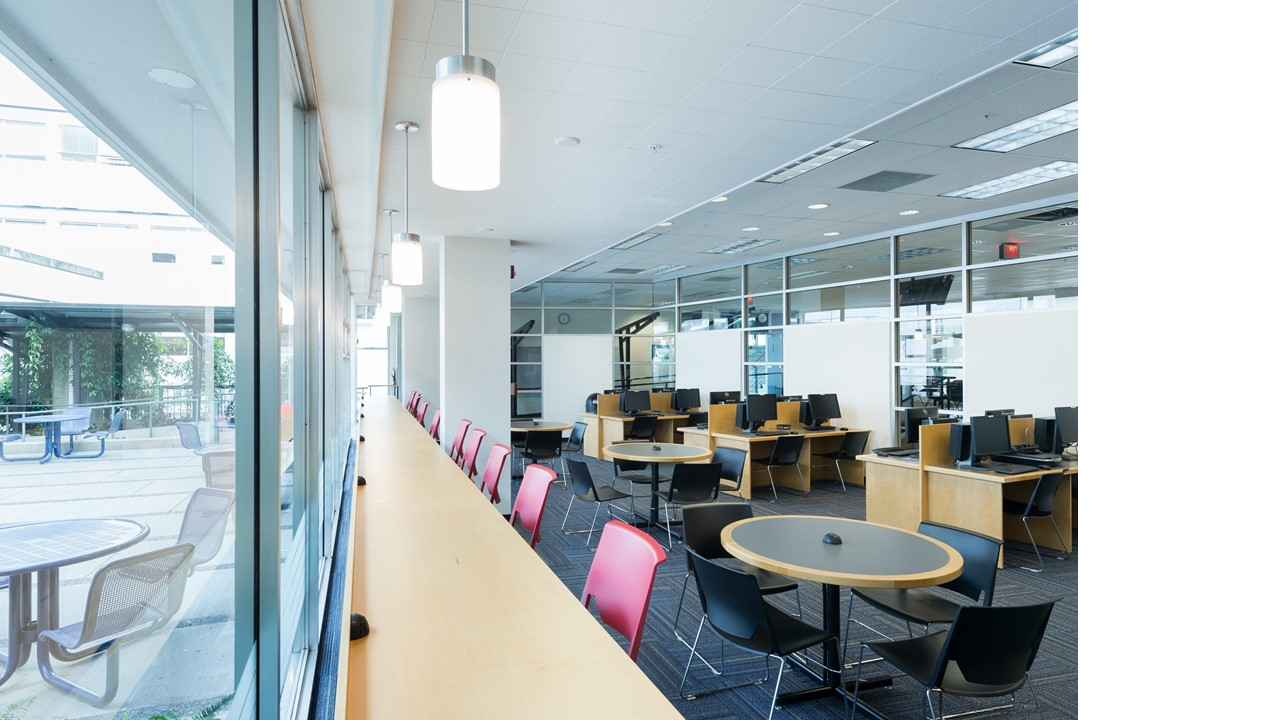
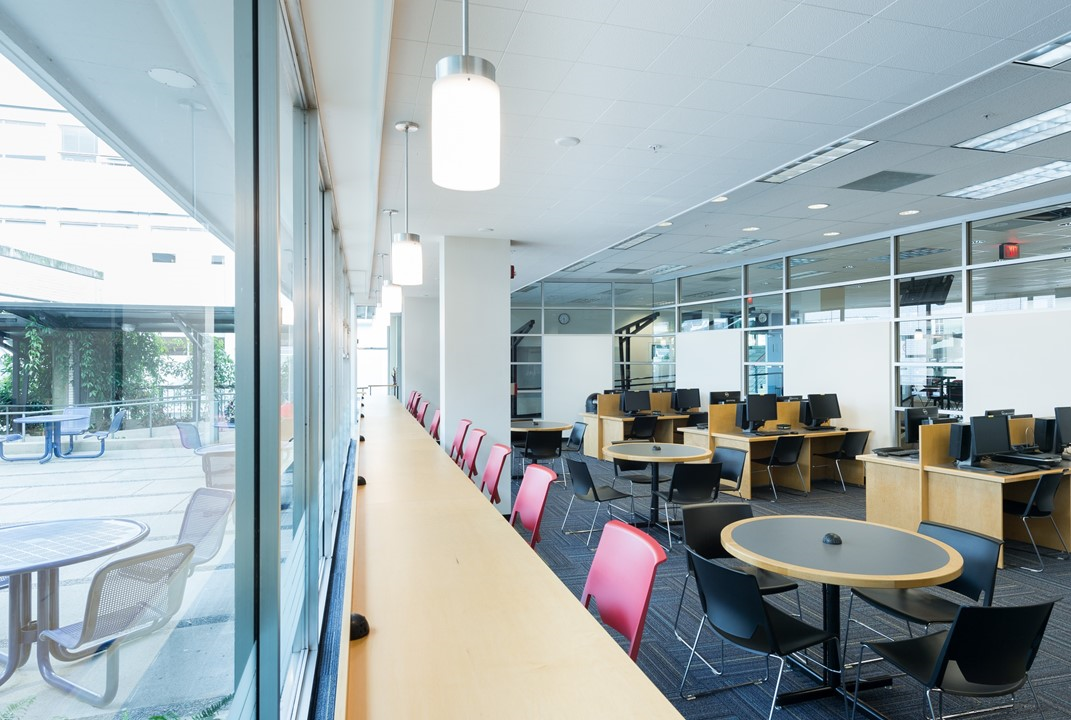
fixed styling for gallery images + cropped whitespace from two pictures

diff --git a/src/Components/Gallery/Gallery.scss b/src/Components/Gallery/Gallery.scss
@@ -1,4 +1,7 @@
 .gallery-box {
+  width: 100%;
+  height: 100%;
+
   &:hover {
     .gallery-box__slider-button {
       opacity: 1;
@@ -10,6 +13,7 @@
     /* width: calc(33.333% - 10px); */
     overflow: hidden;
     width: 100%;
+    height: 100%;
     border-radius: 20px;
     transition: 0.3s;
 

diff --git a/src/Pages/SpotDetailpage.scss b/src/Pages/SpotDetailpage.scss
@@ -43,6 +43,7 @@
     display: flex;
     overflow: hidden;
     width: 100%;
+    height: 360px;
     flex-wrap: wrap;
     position: relative;
     border-radius: 20px;
